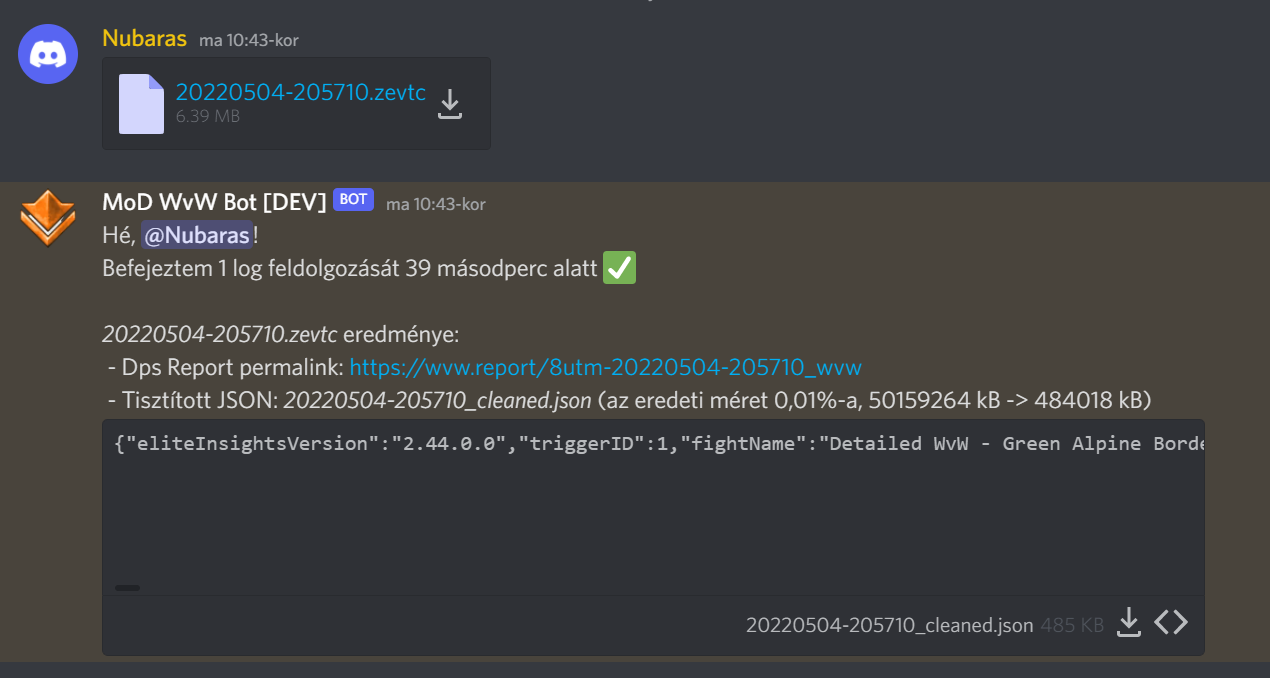
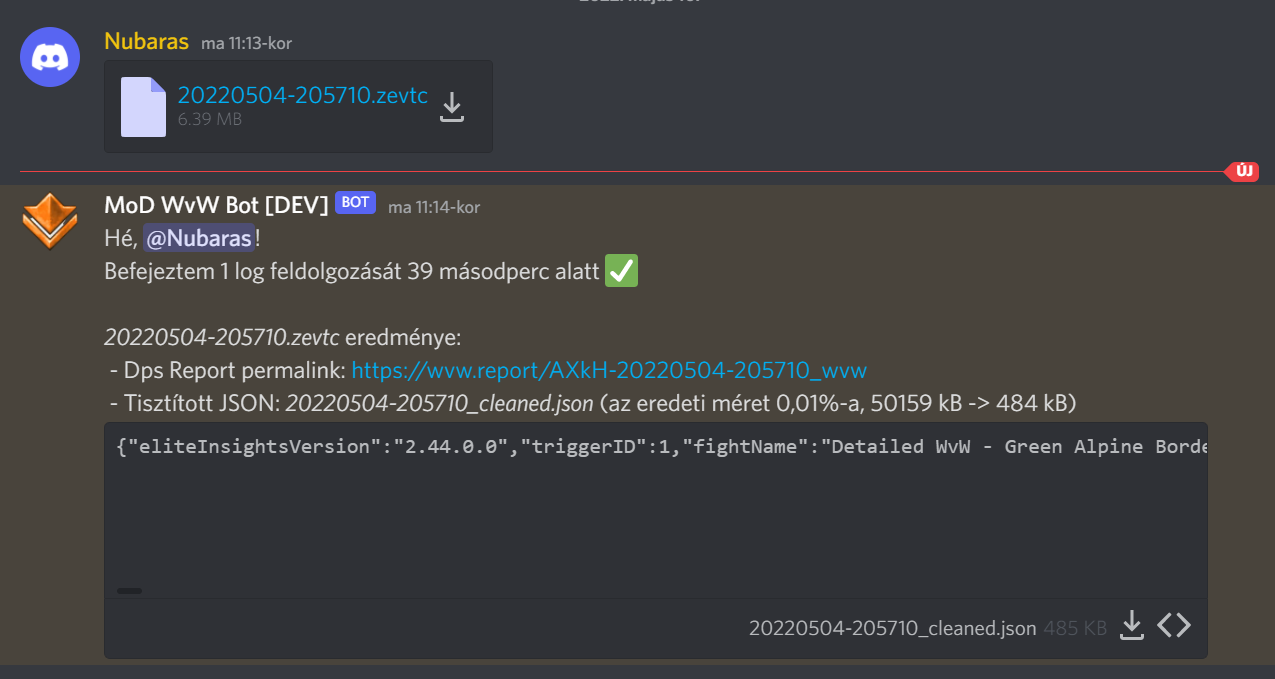
Prepare AWS deployment.

diff --git a/src/test/java/com/gaspar/modwvwbot/model/jsonclean/CleanedWvwLogTest.java b/src/test/java/com/gaspar/modwvwbot/model/jsonclean/CleanedWvwLogTest.java
@@ -1,14 +1,13 @@
 package com.gaspar.modwvwbot.model.jsonclean;
 
 import com.fasterxml.jackson.databind.ObjectMapper;
+import com.gaspar.modwvwbot.misc.WvwLogUtils;
 import org.junit.jupiter.api.Test;
 
 import java.io.IOException;
 import java.nio.file.Files;
 import java.nio.file.Path;
 import java.nio.file.Paths;
-
-import static org.junit.jupiter.api.Assertions.*;
 
 class CleanedWvwLogTest {
 
@@ -18,13 +17,19 @@ class CleanedWvwLogTest {
     private ObjectMapper objectMapper = new ObjectMapper();
 
     @Test
-    public void testDeserializeLog() throws IOException {
-        Path testJsonPath = testLogsPath.resolve("20220504-205710_wvw_kill.json");
-        CleanedWvwLog cleanedLog = objectMapper.readValue(testJsonPath.toFile(), CleanedWvwLog.class);
+    public void testCleanLog() throws IOException {
+        Path testJsonPath = testLogsPath.resolve("20220504-205710_wvw_kill_pretty.json");
+
+        String json = Files.readString(testJsonPath);
+        var targets = WvwLogUtils.extractTargets(json);
+
+        CleanedWvwLog cleanedLog = objectMapper.readValue(json, CleanedWvwLog.class);
+        cleanedLog.setTargets(targets);
         //to file
         Path cleanedJsonPath = testLogsPath.resolve("20220504-205710_wvw_kill_cleaned.json");
+        Files.deleteIfExists(cleanedJsonPath);
         Files.createFile(cleanedJsonPath);
-        objectMapper.writeValue(cleanedJsonPath.toFile(), cleanedLog);
+        objectMapper.writerWithDefaultPrettyPrinter().writeValue(cleanedJsonPath.toFile(), cleanedLog);
     }
 
 }

diff --git a/src/main/java/com/gaspar/modwvwbot/misc/LogProcessorTask.java b/src/main/java/com/gaspar/modwvwbot/misc/LogProcessorTask.java
@@ -71,12 +71,18 @@ public class LogProcessorTask implements Callable<LogProcessingResult> {
             //upload log and get json from dps.report
             log.debug("Uploading file '{}' to dps.report, creating permalink and JSON.", attachment.getFileName());
             DpsReportResponse dpsReportResponse = dpsReportService.getLogJson(tempFilePath.toFile());
+
+            //extract targets to be used later
+            var targets = WvwLogUtils.extractTargets(dpsReportResponse.getLogJson());
             byte[] jsonBytes = dpsReportResponse.getLogJson().getBytes(StandardCharsets.UTF_8);
             log.debug("File '{}' was uploaded to dps.report with permalink '{}'. JSON downloaded, it is '{}' bytes long.",
                     attachment.getFileName(), dpsReportResponse.getPermalink(), jsonBytes.length);
             //clean json
             var mapper = new ObjectMapper();
             CleanedWvwLog cleanedWvwLog = mapper.readValue(jsonBytes, CleanedWvwLog.class);
+            //add targets
+            cleanedWvwLog.setTargets(targets);
+
             cleanedJsonName = fileNameWithoutExtension(attachment.getFileName()) + "_cleaned.json";
             cleanedJsonPath = Paths.get(System.getProperty("java.io.tmpdir"), cleanedJsonName);
             Files.deleteIfExists(cleanedJsonPath);

diff --git a/src/main/java/com/gaspar/modwvwbot/misc/WvwLogUtils.java b/src/main/java/com/gaspar/modwvwbot/misc/WvwLogUtils.java
@@ -1,0 +1,44 @@
+package com.gaspar.modwvwbot.misc;
+
+import com.gaspar.modwvwbot.model.jsonclean.Target;
+
+import java.util.ArrayList;
+import java.util.HashSet;
+import java.util.List;
+import java.util.regex.Matcher;
+import java.util.regex.Pattern;
+
+/**
+ * Utilities for processing Wvw logs.
+ */
+public class WvwLogUtils {
+
+    /**
+     * Regex to match enemy player names in the log. For example:
+     *  - Scourge pl1-5432
+     *  - Firebrand pl24-4685
+     */
+    private static final Pattern targetRegex = Pattern.compile("\\w+ pl\\d+-(\\d){4}");
+
+    /**
+     * Collect all enemy players that appear in the log.
+     * @param jsonLog The log in JSON format before any cleaning.
+     * @return All unique targets.
+     * @see Target
+     */
+    public static List<Target> extractTargets(String jsonLog) {
+        var enemyNames = new HashSet<String>();
+        Matcher matcher = targetRegex.matcher(jsonLog);
+        while (matcher.find()) {
+            String player = matcher.group();
+            enemyNames.add(player);
+        }
+        var enemies = new ArrayList<Target>();
+        int id = 1;
+        for(String name: enemyNames) {
+            enemies.add(new Target(name, true, id++));
+        }
+        return enemies;
+    }
+
+}

diff --git a/src/main/java/com/gaspar/modwvwbot/services/LogUploadWatcherService.java b/src/main/java/com/gaspar/modwvwbot/services/LogUploadWatcherService.java
@@ -178,8 +178,8 @@ public class LogUploadWatcherService extends ListenerAdapter {
                 message.append(" - Dps Report permalink: <").append(result.getPermalink()).append(">\n");
                 String compression = calculateCompressionPercentage(result.getOriginalSize(), result.getCleanedSize());
                 message.append(" - Tisztított JSON: *").append(result.getNameOfCleanedJson()).append("* (az eredeti méret ").append(compression)
-                        .append("%-a, ").append(result.getOriginalSize()).append(" kB -> ")
-                        .append(result.getCleanedSize()).append(" kB)\n");
+                        .append("%-a, ").append(result.getOriginalSize()/1000).append(" kB -> ")
+                        .append(result.getCleanedSize()/1000).append(" kB)\n");
                 files.add(result.getPathToCleanedJson().toFile());
             } else {
                 String fail = EmoteUtils.defaultEmote("no_entry_sign");

diff --git a/src/main/java/com/gaspar/modwvwbot/model/jsonclean/CleanedWvwLog.java b/src/main/java/com/gaspar/modwvwbot/model/jsonclean/CleanedWvwLog.java
@@ -7,6 +7,8 @@ import lombok.Getter;
 import lombok.NoArgsConstructor;
 import lombok.Setter;
 
+import java.util.List;
+
 /**
  * This is the model class of the cleaned JSON log files, which contain
  * only the fields necessary for the Power BI data visualization.
@@ -25,6 +27,8 @@ public class CleanedWvwLog {
     private String arcVersion;
     @JsonProperty("gW2Build")
     private String gW2Build;
+    private String language;
+    private int languageID;
     private String recordedBy;
     private String timeStart;
     private String timeEnd;
@@ -35,7 +39,7 @@ public class CleanedWvwLog {
     @JsonProperty("isCM")
     private boolean isCM;
     //targets
-    private Target[] targets;
+    private List<Target> targets;
     //players
     private Player[] players;
     //other relatively small attributes that are to be kept in full

diff --git a/src/main/java/com/gaspar/modwvwbot/model/jsonclean/Target.java b/src/main/java/com/gaspar/modwvwbot/model/jsonclean/Target.java
@@ -1,6 +1,8 @@
 package com.gaspar.modwvwbot.model.jsonclean;
 
 import com.fasterxml.jackson.annotation.JsonIgnoreProperties;
+import com.fasterxml.jackson.annotation.JsonProperty;
+import lombok.AllArgsConstructor;
 import lombok.Getter;
 import lombok.NoArgsConstructor;
 import lombok.Setter;
@@ -13,10 +15,12 @@ import lombok.Setter;
 @Getter
 @Setter
 @NoArgsConstructor
+@AllArgsConstructor
 public class Target {
 
     private String name;
     private boolean enemyPlayer;
+    @JsonProperty("instanceID")
     private int instanceId;
 
 }

diff --git a/README.md b/README.md
@@ -2,6 +2,12 @@
 
 Discord bot to manage Guild Wars 2 WvW related stuff on a discord server.
 
+Invite link:
+
+```
+https://discord.com/api/oauth2/authorize?client_id=972523867270705172&permissions=277025704000&scope=bot%20applications.commands
+```
+
 ## Slash commands
 
 These commands use discords slash command system, so there is support in the client for them, such as 
